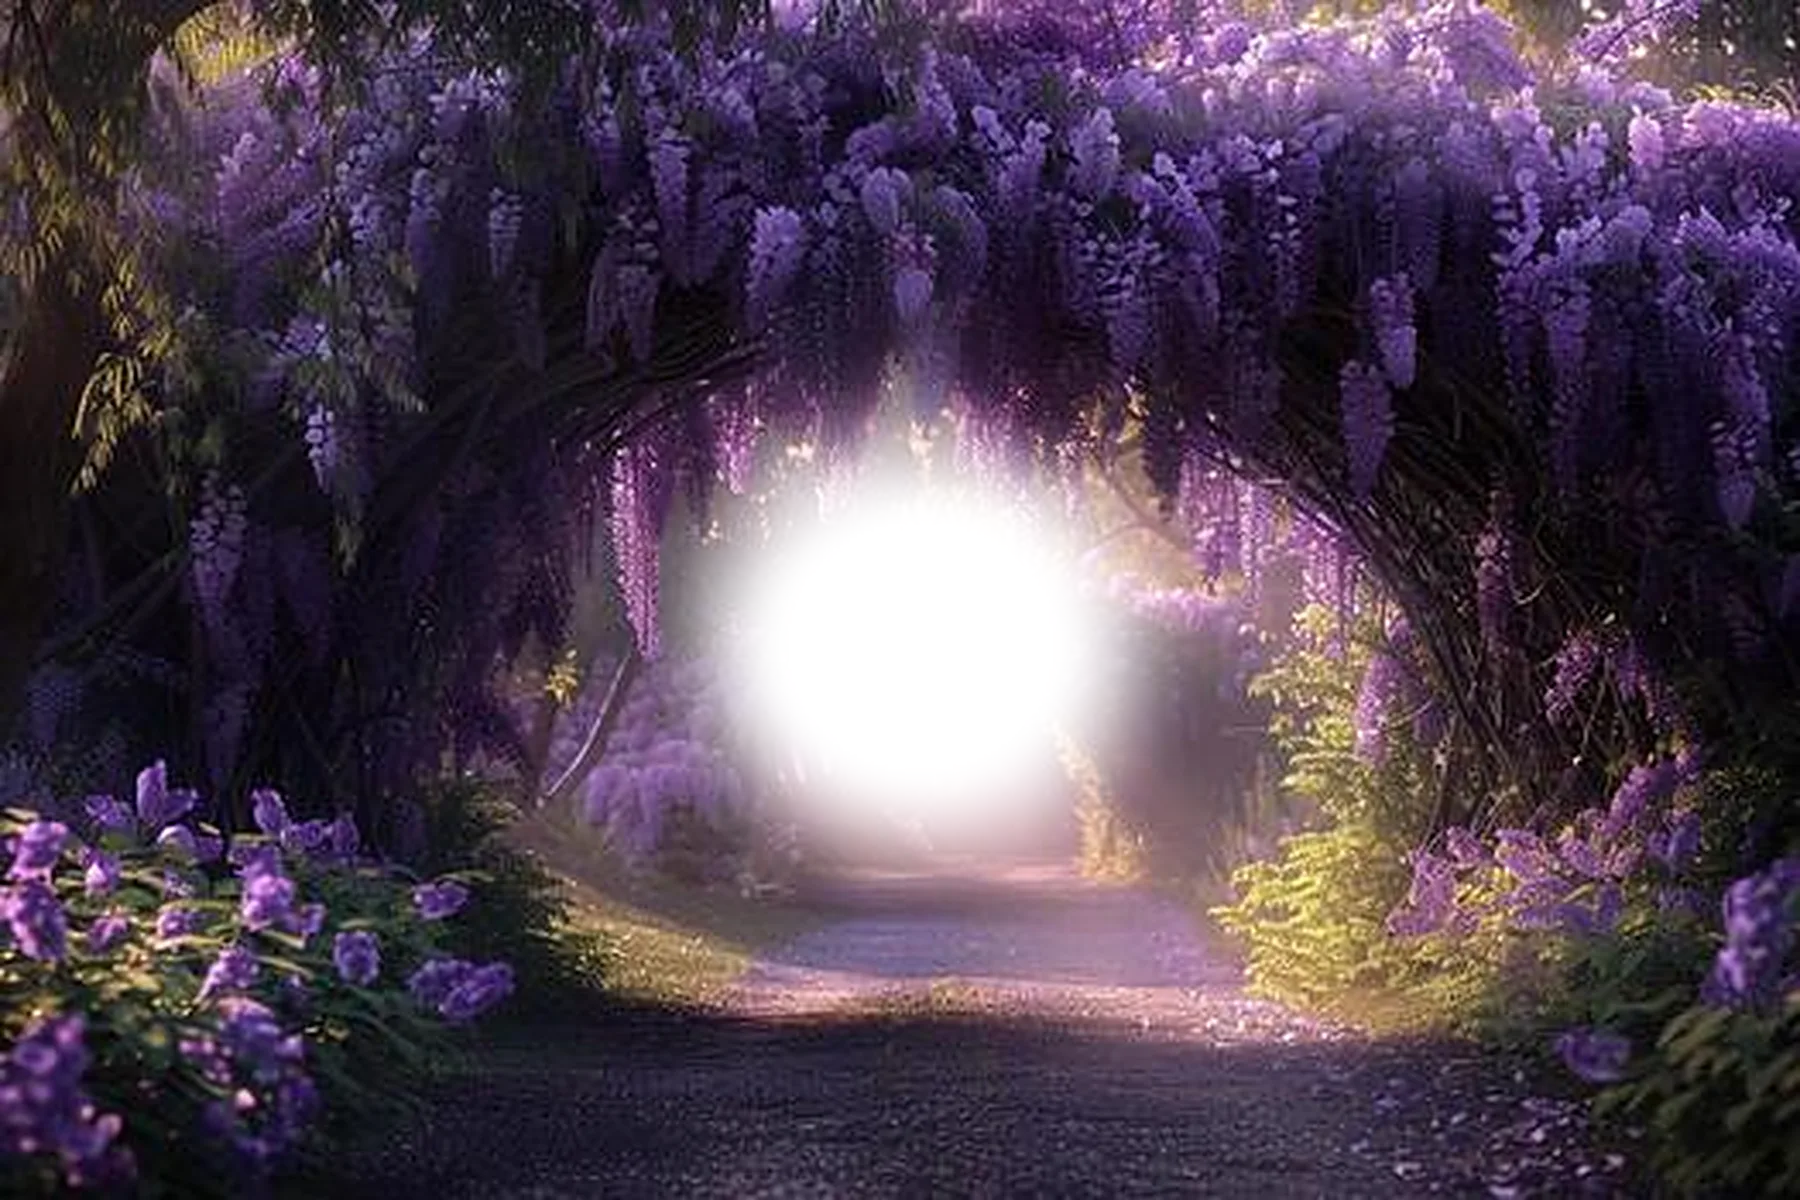
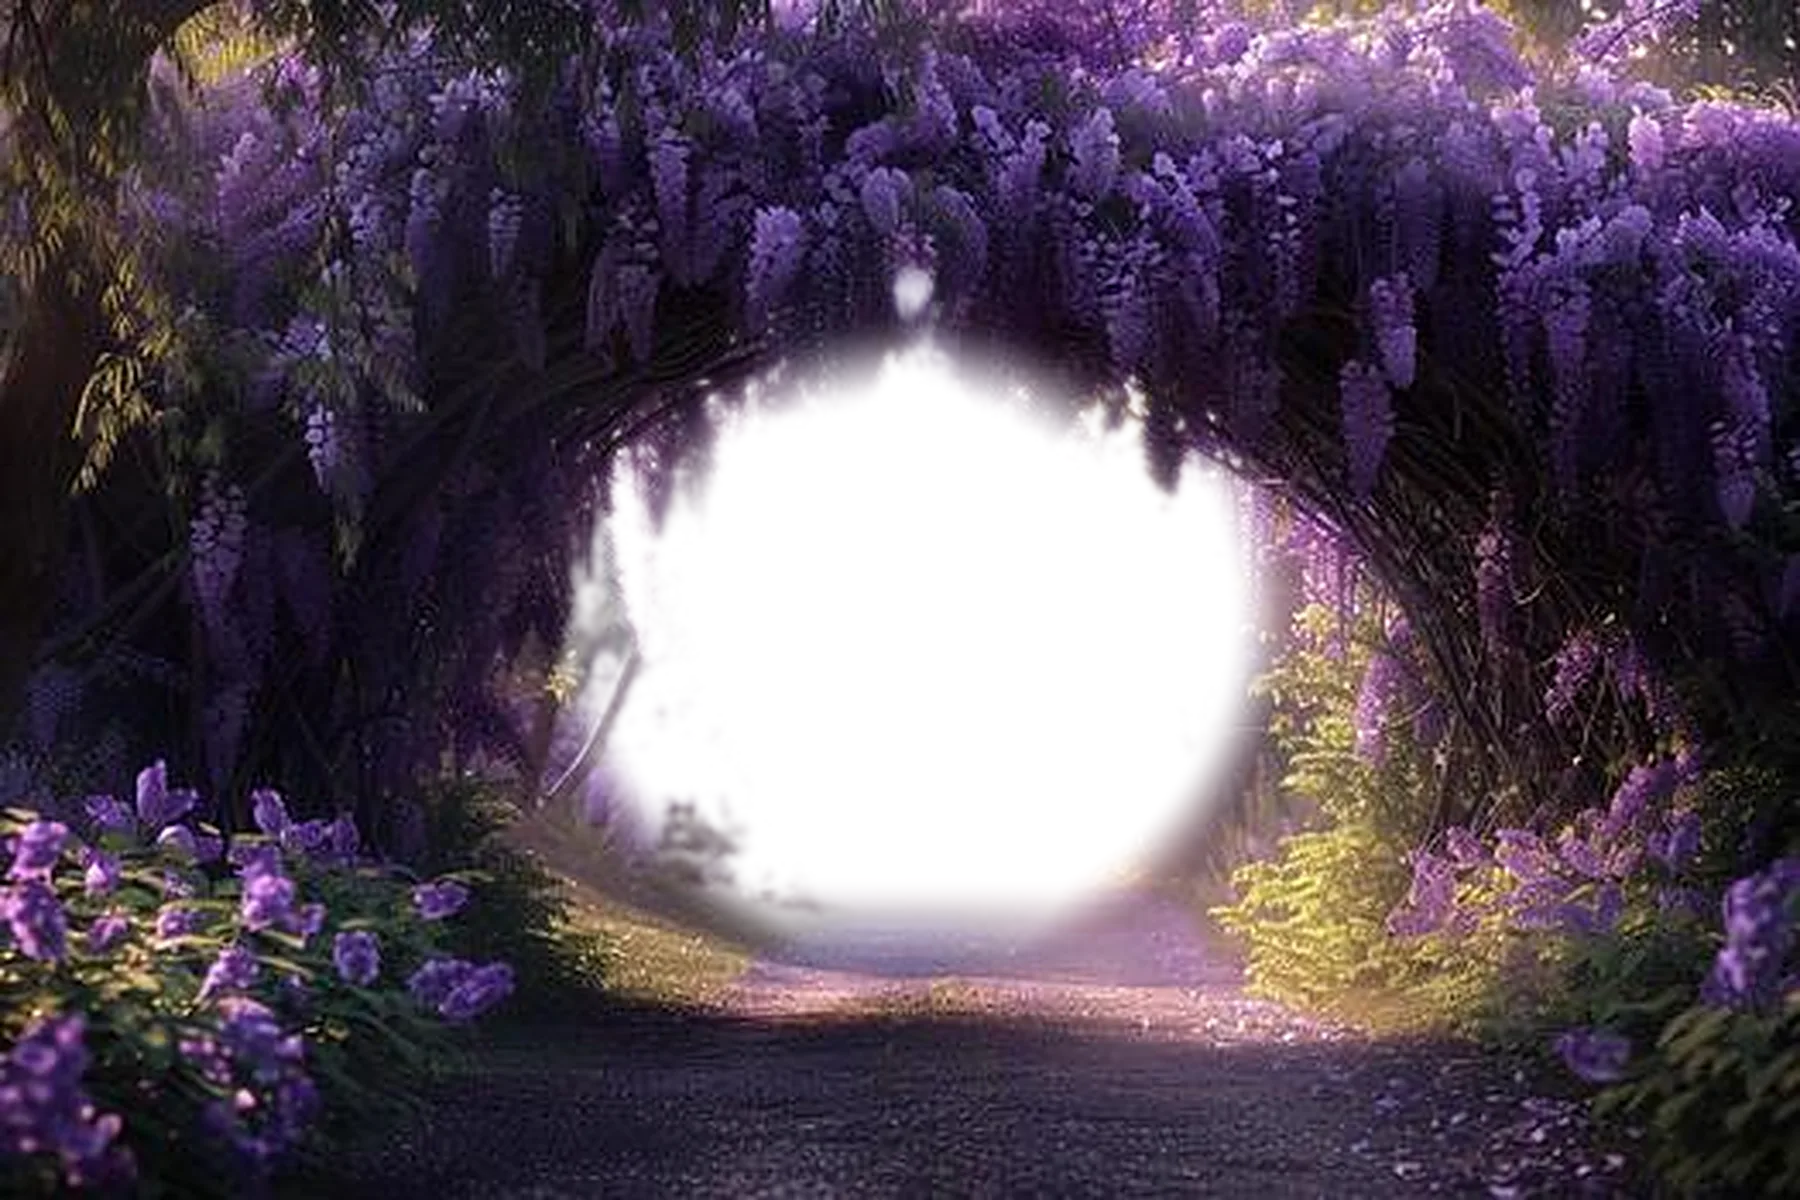
Garden portal: open the archway onto the clouds, glide-in, cursor orb
Matches the reference more closely: the far tunnel is cut away so the arch frames a
big window onto the pink clouds, the camera glides in when the page opens, and a
soft orb trails the cursor. Butterflies and light rays removed for a calmer look.

Claude-Session: https://claude.ai/code/session_01Wvaad6NqG2hHxS6qhfpy4K

Changed region(s): [[0.3111, 0.2158, 0.7156, 0.8017]]

diff --git a/src/components/whimsy/garden.ts b/src/components/whimsy/garden.ts
@@ -1,17 +1,17 @@
 /* Garden portal (Mini goals): a wisteria archway opening onto pink clouds, built from three picture layers
- * in public/whimsy/ that slide at different depths with the cursor, plus falling petals, sparkles,
- * light rays and butterflies drawn on top. A click scatters a burst of petals. */
+ * in public/whimsy/ that slide at different depths with the cursor, a slow glide-in when the page opens,
+ * drifting petals and sparkles, and a glowing orb that trails the cursor. A click scatters petals. */
 import { glow, pick, rand, sway, TAU, vgrad, type SceneMaker } from "./engine";
 
 const load = (src: string) => { const i = new Image(); i.decoding = "async"; i.src = src; return i; };
 
 type Petal = { x: number; y: number; vx: number; vy: number; a: number; va: number; s: number; c: string; flip: number };
-type Fly = { x: number; y: number; tx: number; ty: number; ph: number; c: string; s: number };
 
 export const garden: SceneMaker = (env) => {
   const { ctx } = env;
   const sky = load("/whimsy/garden-sky.webp"), arch = load("/whimsy/garden-arch.webp"), front = load("/whimsy/garden-front.webp");
-  let petals: Petal[] = [], sparks: { x: number; y: number; r: number; ph: number; v: number }[] = [], flies: Fly[] = [];
+  const orb = { x: 0, y: 0 };
+  let petals: Petal[] = [], sparks: { x: number; y: number; r: number; ph: number; v: number }[] = [];
   const COLORS = ["#c9a7ff", "#b48cf2", "#e3d0ff", "#f3c6ff", "#9f7ae0"];
   const newPetal = (x = rand(0, env.W), y = rand(-40, -10)): Petal => ({ x, y, vx: rand(-8, 12), vy: rand(18, 40), a: rand(0, TAU), va: rand(-2, 2), s: rand(4, 7), c: pick(COLORS), flip: rand(0, TAU) });
 
@@ -29,34 +29,28 @@ export const garden: SceneMaker = (env) => {
   return {
     init() {
       const { W, H } = env;
-      petals = Array.from({ length: env.small ? 30 : 60 }, () => newPetal(rand(0, W), rand(0, H)));
-      sparks = Array.from({ length: env.small ? 30 : 55 }, () => ({ x: rand(0, W), y: rand(0, H), r: rand(0.8, 2.2), ph: rand(0, TAU), v: rand(4, 12) }));
-      flies = Array.from({ length: 3 }, () => ({ x: rand(0, W), y: rand(H * 0.3, H * 0.7), tx: rand(0, W), ty: rand(0, H), ph: rand(0, TAU), c: pick(["#ffd6f6", "#fff1a8", "#d6c4ff"]), s: rand(0.8, 1.2) }));
+      petals = Array.from({ length: env.small ? 15 : 30 }, () => newPetal(rand(0, W), rand(0, H)));
+      sparks = Array.from({ length: env.small ? 18 : 32 }, () => ({ x: rand(0, W), y: rand(0, H), r: rand(0.8, 2.2), ph: rand(0, TAU), v: rand(4, 12) }));
     },
     click(x, y) {
       for (let i = 0; i < 26; i++) { const p = newPetal(x, y), a = rand(0, TAU), s = rand(60, 200); p.vx = Math.cos(a) * s; p.vy = Math.sin(a) * s; petals.push(p); }
-      for (const f of flies) { f.tx = x + rand(-60, 60); f.ty = y + rand(-60, 60); }
     },
     frame(t, dt) {
       const { W, H, mouse } = env;
       const { mx, my } = sway(env, t);
       vgrad(env, [[0, "#b9a3e6"], [0.5, "#f2b6d6"], [1, "#2a1c3d"]]);
+      // Opening shot: the camera glides into the garden over the first few seconds
+      const k = 1 - (1 - Math.min(1, t / 4)) ** 3, intro = (1 - k) * 0.22;
       // Back: clouds, barely moving and drifting slowly
-      cover(sky, -mx * 10 + Math.sin(t * 0.05) * 18, -my * 6, 1.12, 0.62);
+      cover(sky, -mx * 12 + Math.sin(t * 0.04) * 26, -my * 8 + Math.cos(t * 0.05) * 6, 1.12 + intro * 0.5 + Math.sin(t * 0.07) * 0.015, 0.62);
       // Glow through the portal
       const portal = { x: W / 2 - mx * 26, y: H * 0.52 - my * 14 };
       ctx.globalCompositeOperation = "lighter";
       glow(ctx, portal.x, portal.y, Math.min(W, H) * (0.32 + Math.sin(t * 0.8) * 0.02), "rgba(255,210,235,.28)");
       ctx.globalCompositeOperation = "source-over";
       // Middle: the archway
-      cover(arch, -mx * 28, -my * 14, 1.08, 0.55);
-      // Light rays falling through the canopy
+      cover(arch, -mx * 34, -my * 18, 1.08 + intro, 0.55);
       ctx.globalCompositeOperation = "lighter";
-      for (let i = 0; i < 5; i++) {
-        const x0 = portal.x + (i - 2) * W * 0.06 + Math.sin(t * 0.3 + i) * 10, a = 0.05 + 0.03 * Math.sin(t * 0.7 + i * 1.3);
-        const g = ctx.createLinearGradient(x0, 0, x0, H); g.addColorStop(0, `rgba(255,236,250,${a})`); g.addColorStop(1, "rgba(255,236,250,0)");
-        ctx.fillStyle = g; ctx.beginPath(); ctx.moveTo(x0 - 18, 0); ctx.lineTo(x0 + 18, 0); ctx.lineTo(x0 + 90 + i * 20, H); ctx.lineTo(x0 - 90 - i * 20, H); ctx.fill();
-      }
       // Sparkles drifting up, drawn toward the cursor
       for (const s of sparks) {
         s.y -= s.v * dt; s.x += Math.sin(t * 0.6 + s.ph) * 0.3;
@@ -66,28 +60,10 @@ export const garden: SceneMaker = (env) => {
         glow(ctx, s.x, s.y, s.r * 6, `rgba(255,240,200,${0.55 * a})`, "rgba(255,220,180,0)");
       }
       ctx.globalCompositeOperation = "source-over";
-      // Butterflies that wander and follow the cursor
-      for (const f of flies) {
-        if (mouse.active && Math.hypot(mouse.x - f.x, mouse.y - f.y) < 340) { f.tx = mouse.x + Math.sin(t * 1.4 + f.ph) * 50; f.ty = mouse.y + Math.cos(t * 1.1 + f.ph) * 40; }
-        else if (Math.hypot(f.tx - f.x, f.ty - f.y) < 30) { f.tx = rand(W * 0.1, W * 0.9); f.ty = rand(H * 0.15, H * 0.8); }
-        f.x += (f.tx - f.x) * dt * 0.8 + Math.sin(t * 3 + f.ph) * 0.6; f.y += (f.ty - f.y) * dt * 0.8 + Math.cos(t * 4 + f.ph) * 0.6;
-        const flap = Math.abs(Math.sin(t * 14 + f.ph)), s = 9 * f.s, dir = f.tx > f.x ? 1 : -1;
-        ctx.save(); ctx.translate(f.x, f.y); ctx.scale(dir, 1);
-        glow(ctx, 0, 0, s * 3, "rgba(255,220,250,.25)");
-        ctx.fillStyle = f.c;
-        for (const side of [-1, 1]) {
-          ctx.save(); ctx.scale(1, side); ctx.scale(0.25 + flap * 0.75, 1);
-          ctx.beginPath(); ctx.ellipse(-s * 0.2, -s * 0.7, s * 0.9, s * 0.7, -0.5, 0, TAU); ctx.fill();
-          ctx.beginPath(); ctx.ellipse(-s * 0.1, -s * 0.15, s * 0.55, s * 0.45, 0.4, 0, TAU); ctx.fill();
-          ctx.restore();
-        }
-        ctx.fillStyle = "#3a2a4a"; ctx.fillRect(-s * 0.6, -1, s * 1.2, 2);
-        ctx.restore();
-      }
       // Front: the near flowers and canopy, moving the most
-      cover(front, -mx * 60, -my * 30, 1.16, 0.55);
+      cover(front, -mx * 70, -my * 36, 1.16 + intro * 1.6, 0.55);
       // Falling wisteria petals, swirling around the cursor
-      if (Math.random() < dt * (env.small ? 4 : 8)) petals.push(newPetal());
+      if (Math.random() < dt * (env.small ? 2 : 4)) petals.push(newPetal());
       for (const p of petals) {
         if (mouse.active) { const dx = p.x - mouse.x, dy = p.y - mouse.y, d = Math.hypot(dx, dy) || 1; if (d < 140) { const f = (1 - d / 140) * 380 * dt; p.vx += (-dy / d) * f + (dx / d) * f * 0.3; p.vy += (dx / d) * f + (dy / d) * f * 0.3; } }
         p.vx += (Math.sin(t * 0.5 + p.flip) * 10 - p.vx) * dt * 0.8; p.vy += (32 - p.vy) * dt * 0.8;
@@ -97,6 +73,15 @@ export const garden: SceneMaker = (env) => {
         ctx.restore();
       }
       petals = petals.filter((p) => p.y < H + 30 && p.y > -120 && p.x > -80 && p.x < W + 80).slice(-220);
+      // A soft glowing orb that trails the cursor
+      if (mouse.active) {
+        orb.x += (mouse.x - orb.x) * Math.min(1, dt * 6); orb.y += (mouse.y - orb.y) * Math.min(1, dt * 6);
+        ctx.globalCompositeOperation = "lighter";
+        glow(ctx, orb.x, orb.y, 46, "rgba(255,235,250,.22)");
+        ctx.globalCompositeOperation = "source-over";
+        ctx.fillStyle = "rgba(255,255,255,.85)"; ctx.beginPath(); ctx.arc(orb.x, orb.y, 5, 0, TAU); ctx.fill();
+        ctx.strokeStyle = "rgba(255,255,255,.35)"; ctx.lineWidth = 1; ctx.beginPath(); ctx.arc(orb.x, orb.y, 18 + Math.sin(t * 2) * 2, 0, TAU); ctx.stroke();
+      } else { orb.x = env.W / 2; orb.y = env.H / 2; }
       // Soft dark edge so the page text stays readable
       const v = ctx.createRadialGradient(W / 2, H / 2, Math.min(W, H) * 0.35, W / 2, H / 2, Math.max(W, H) * 0.75);
       v.addColorStop(0, "rgba(10,6,20,0)"); v.addColorStop(1, "rgba(10,6,20,.45)");
